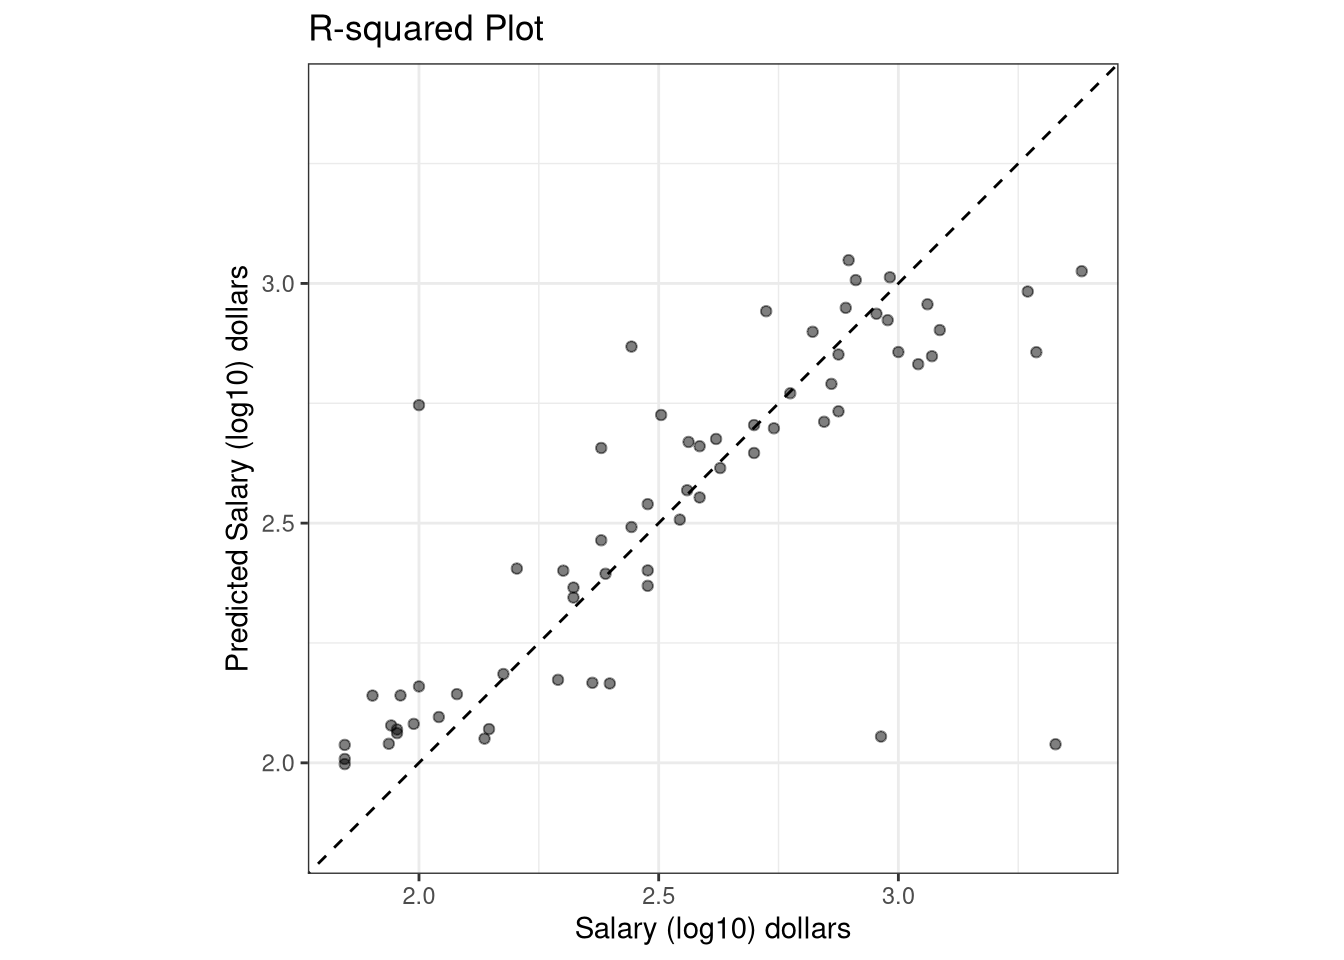
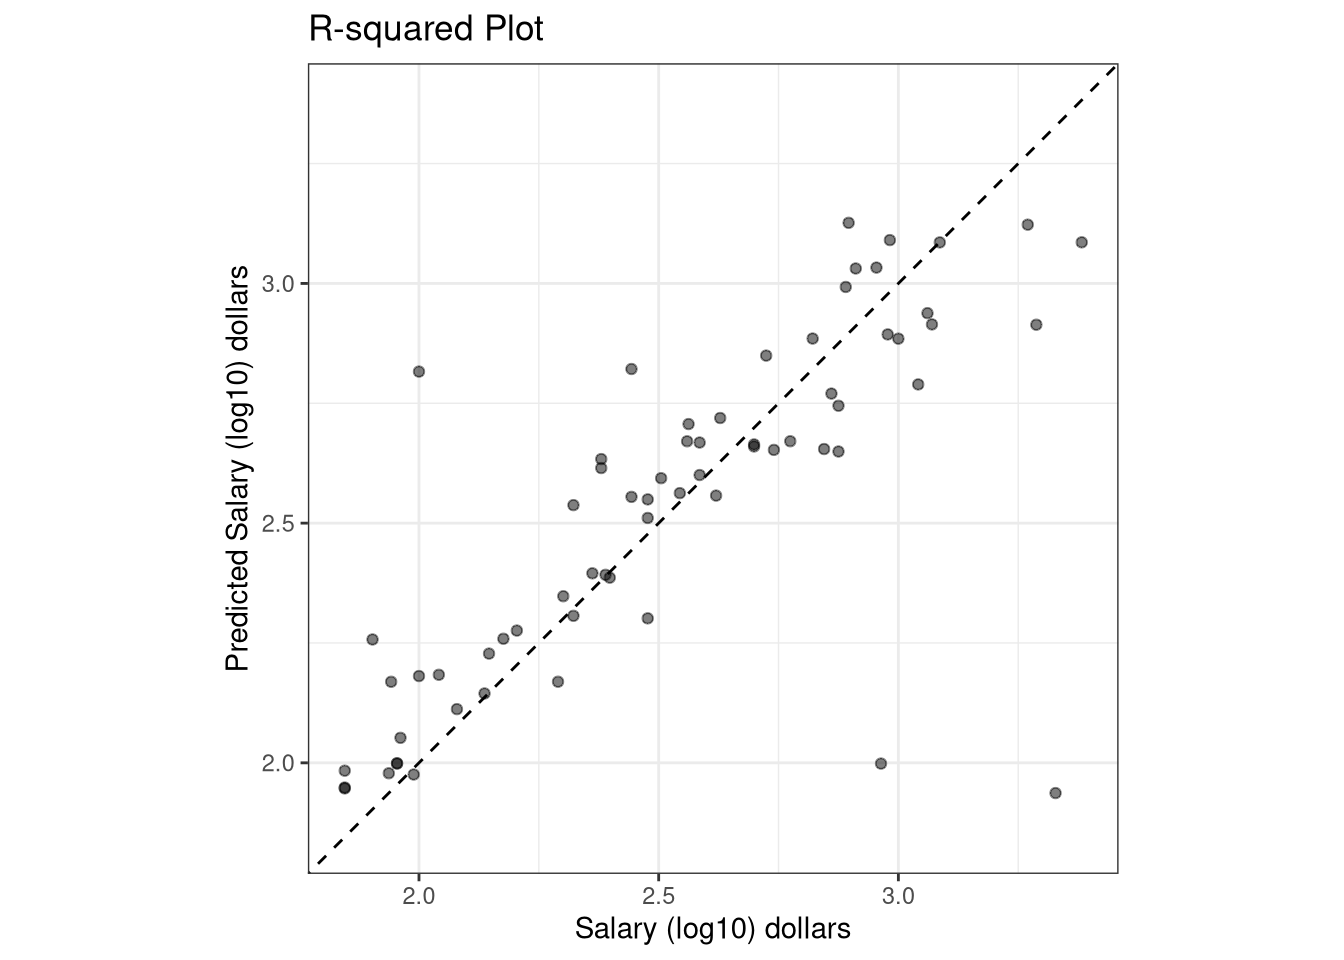
tweakers

diff --git a/QuartoStuff/Tree_Based_Methods.html b/QuartoStuff/Tree_Based_Methods.html
@@ -93,7 +93,7 @@ pre > code.sourceCode > span > a:first-child::before { text-decoration: underlin
     <div>
     <div class="quarto-title-meta-heading">Published</div>
     <div class="quarto-title-meta-contents">
-      <p class="date">Last modified on March 11, 2025 14:43:39 Eastern Daylight Time</p>
+      <p class="date">Last modified on March 11, 2025 14:56:01 Eastern Daylight Time</p>
     </div>
   </div>
   
@@ -1071,7 +1071,7 @@ Run `show_notes(.Last.tune.result)` for more information.</code></pre>
 <div class="sourceCode cell-code" id="cb72"><pre class="sourceCode r code-with-copy"><code class="sourceCode r"><span id="cb72-1"><a href="#cb72-1" aria-hidden="true" tabindex="-1"></a><span class="co"># xgboost_param &lt;- tibble(trees = 1597, min_n = 12, tree_depth = 6, </span></span>
 <span id="cb72-2"><a href="#cb72-2" aria-hidden="true" tabindex="-1"></a><span class="co">#                         learn_rate = 0.00444 ,loss_reduction = 0.000000282, </span></span>
 <span id="cb72-3"><a href="#cb72-3" aria-hidden="true" tabindex="-1"></a><span class="co">#                        sample_size = 0.651)</span></span>
-<span id="cb72-4"><a href="#cb72-4" aria-hidden="true" tabindex="-1"></a>xgboost_param <span class="ot">&lt;-</span> <span class="fu">show_best</span>(xgboost_tune, <span class="at">metric =</span> <span class="st">"rmse"</span>)[<span class="dv">2</span>, ]</span>
+<span id="cb72-4"><a href="#cb72-4" aria-hidden="true" tabindex="-1"></a>xgboost_param <span class="ot">&lt;-</span> <span class="fu">show_best</span>(xgboost_tune, <span class="at">metric =</span> <span class="st">"rmse"</span>)[<span class="dv">1</span>, ]</span>
 <span id="cb72-5"><a href="#cb72-5" aria-hidden="true" tabindex="-1"></a>final_xgboost_wkfl <span class="ot">&lt;-</span> xgboost_workflow <span class="sc">|&gt;</span> </span>
 <span id="cb72-6"><a href="#cb72-6" aria-hidden="true" tabindex="-1"></a>  <span class="fu">finalize_workflow</span>(xgboost_param)</span>
 <span id="cb72-7"><a href="#cb72-7" aria-hidden="true" tabindex="-1"></a>final_xgboost_wkfl </span></code><button title="Copy to Clipboard" class="code-copy-button"><i class="bi"></i></button></pre></div>
@@ -1091,12 +1091,12 @@ Model: boost_tree()
 Boosted Tree Model Specification (regression)
 
 Main Arguments:
-  trees = 2000
-  min_n = 18
-  tree_depth = 6
-  learn_rate = 0.00343332001828199
-  loss_reduction = 6.62870316182644e-10
-  sample_size = 0.357142857142857
+  trees = 572
+  min_n = 15
+  tree_depth = 12
+  learn_rate = 0.209617999245313
+  loss_reduction = 0.10857111194022
+  sample_size = 0.935714285714286
 
 Computational engine: xgboost </code></pre>
 </div>
@@ -1123,17 +1123,17 @@ Computational engine: xgboost </code></pre>
 <tr class="odd">
 <td style="text-align: left;">rmse</td>
 <td style="text-align: left;">standard</td>
-<td style="text-align: right;">0.2623014</td>
+<td style="text-align: right;">0.2723555</td>
 </tr>
 <tr class="even">
 <td style="text-align: left;">rsq</td>
 <td style="text-align: left;">standard</td>
-<td style="text-align: right;">0.6049872</td>
+<td style="text-align: right;">0.5793174</td>
 </tr>
 <tr class="odd">
 <td style="text-align: left;">mae</td>
 <td style="text-align: left;">standard</td>
-<td style="text-align: right;">0.1595810</td>
+<td style="text-align: right;">0.1595444</td>
 </tr>
 </tbody>
 </table>
@@ -1157,7 +1157,7 @@ Computational engine: xgboost </code></pre>
 </div>
 </div>
 </div>
-<p>The boosted model is very similar to the random forest model with an <span class="math inline">\(R^2\)</span> value of 60.5% and a mean absolute error of $1,444.05.</p>
+<p>The boosted model is very similar to the random forest model with an <span class="math inline">\(R^2\)</span> value of 57.93% and a mean absolute error of $1,443.92.</p>
 </section>
 </section>
 
